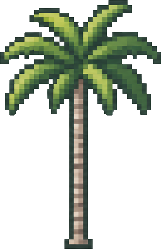
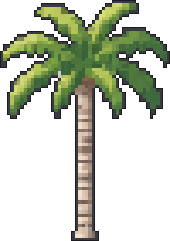
加入風格 7：風格 6＋新畫的 8 種樹（深色外框，含櫻花、油桐花、落羽松）
- Codex 用 image_gen 把 8 種樹畫在同一張圖，像素大小一致；外框照總統府參考圖改成深色，再加深 50%
- 風格可以自己設定一套樹（MAP_STYLE.trees：圖片、出現機率），首頁載入
- 版本 2026.11.27-1

Claude-Session: https://claude.ai/code/session_0187fAxQKj49HxVRHKzpoKiZ

Changed region(s): [[0.0, 0.0, 1.0, 1.0]]

diff --git a/src/style.js b/src/style.js
@@ -7,7 +7,7 @@
 //   風格 4：跟風格 3 同一套素材，改成深色邊線
 //   風格 5：直接用 Codex 畫的風格 3 概念圖當整張地面（邊線、樹、路燈都是原圖畫的）
 //   風格 6：原版地圖降低飽和度、各區顏色變柔和、樹的比例統一
-//   風格 7：風格 6＋一套新畫的樹（5 種，像素大小一致）
+//   風格 7：風格 6＋一套新畫的樹（8 種、深灰外框、像素大小一致）
 // 新風格的圖放在 assets/style2/、assets/style3/，檔名和原本的一樣；STYLE_FILES 沒列到的圖就照用原本的。
 // =====================================================================
 const STYLE = (() => {
@@ -122,6 +122,9 @@ MAP_STYLES[7] = {
     ['bld_tree_bush', 'assets/style7/trees/tree_bush.png', 4],
     ['bld_tree_palm', 'assets/style7/trees/tree_palm.png', 1],
     ['bld_tree_flower', 'assets/style7/trees/tree_flower.png', 1],
+    ['bld_tree_sakura', 'assets/style7/trees/tree_sakura.png', 1.5], // 櫻花
+    ['bld_tree_tung', 'assets/style7/trees/tree_tung.png', 1.5],     // 油桐花
+    ['bld_tree_cypress', 'assets/style7/trees/tree_cypress.png', 1.5], // 落羽松
   ],
 };
 const MAP_STYLE = MAP_STYLES[STYLE];

diff --git a/CLAUDE.md b/CLAUDE.md
@@ -59,7 +59,7 @@
 **畫圖、換圖**：先讀 `.claude/skills/taipei-art-pipeline/SKILL.md`。重點：請 Codex 用 `image_gen` 畫（不要寫程式一格一格畫，試過效果很差），
 建築要對齊 2:1 菱形地磚，一定要縮到遊戲實際大小給使用者看。
 
-**風格切換（測試中）**：網址加 `?style=2`～`?style=6` 就換成新風格（`src/style.js`）。新圖放 `assets/style2/`、`assets/style3/`，
+**風格切換（測試中）**：網址加 `?style=2`～`?style=7` 就換成新風格（`src/style.js`）。新圖放 `assets/style2/`、`assets/style3/`，
 檔名和原本一樣，並登記在 `STYLE_FILES`；沒登記的照用原本的圖。地圖顏色、邊線、樹的多寡在 `MAP_STYLES`。改程式時每種風格都要測，原本的風格不能變。
 - 風格 2：灰綠柔和（使用者用 GPT 重畫的地圖當參考），深色細邊線。目前先放在旁邊。
 - 風格 3：秋天的像素城市風（使用者給了一張斜角像素城市插畫當參考；Codex 以原版地圖畫概念圖再拆成素材，只學畫風）。
@@ -70,6 +70,8 @@
   圖的邊緣淡成水的顏色，外面的水用純色（`MAP_STYLE.ground`、`waterColor`）。缺點：改地圖形狀就要重畫整張圖。拉近會糊（原圖解析度不夠，Codex 試過放大重畫也救不回來）。
 - 風格 6：使用者覺得原版拉近最清楚，只是太鮮豔、樹的比例不一致。原版素材降飽和度放在 `assets/style6/`，
   各區顏色往灰綠拉（`SOFT_TINTS`），三種樹用同一個縮放比例（`treeScale`）、隨機大小變化縮小（`treeJitter`）。
+- 風格 7：風格 6＋Codex 新畫的 8 種樹（`assets/style7/trees/`：圓樹、柏樹、灌木、椰子樹、開花樹、櫻花、油桐花、落羽松），
+  照總統府參考圖加深色外框（#1d1d21），8 棵畫在同一張圖再切開，像素大小一致。樹的種類和出現機率在 `MAP_STYLES[7].trees`。
 兩種都只換了地面（草地、道路、人行磚、河水、樹、各區顏色、海岸），建築、角色還是原本的。
 
 **還沒決定的事**：

diff --git a/assets/ASSETS.md b/assets/ASSETS.md
@@ -14,4 +14,5 @@
 | `style3/ground/*.png`（草地、道路、人行磚、河水、秋天的樹、街燈、矮樹叢） | Codex image_gen 生成（以原版地圖為底的概念圖拆成素材），Pillow 轉成菱形和無縫 | 2026-11-26 | 依 OpenAI 使用條款 | 風格 3：秋天的像素城市風（測試中）。使用者給的參考插畫是別人的作品，只學畫風，沒有放進遊戲、沒有照抄內容 |
 | `style3/map_concept.jpg` | Codex image_gen 畫的風格 3 整張地圖概念圖，縮成 1708×1992、邊緣淡成水色 | 2026-11-26 | 依 OpenAI 使用條款 | 風格 5 直接當整張地面 |
 | `style6/ground/*.png` | 原版 `ground/` 素材用 Pillow 降低飽和度和對比 | 2026-11-26 | 同原版 | 風格 6 |
+| `style7/trees/*.png`（8 種樹） | Codex image_gen 畫在同一張圖再切開、去背、統一縮放；外框用 Pillow 加深 | 2026-11-27 | 依 OpenAI 使用條款 | 風格 7 |
 | `fonts/Cubic_11.woff2` | 俐方體 11 號（Cubic 11） | | SIL OFL，見 `fonts/Cubic_11-OFL.txt` | 可商用 |
